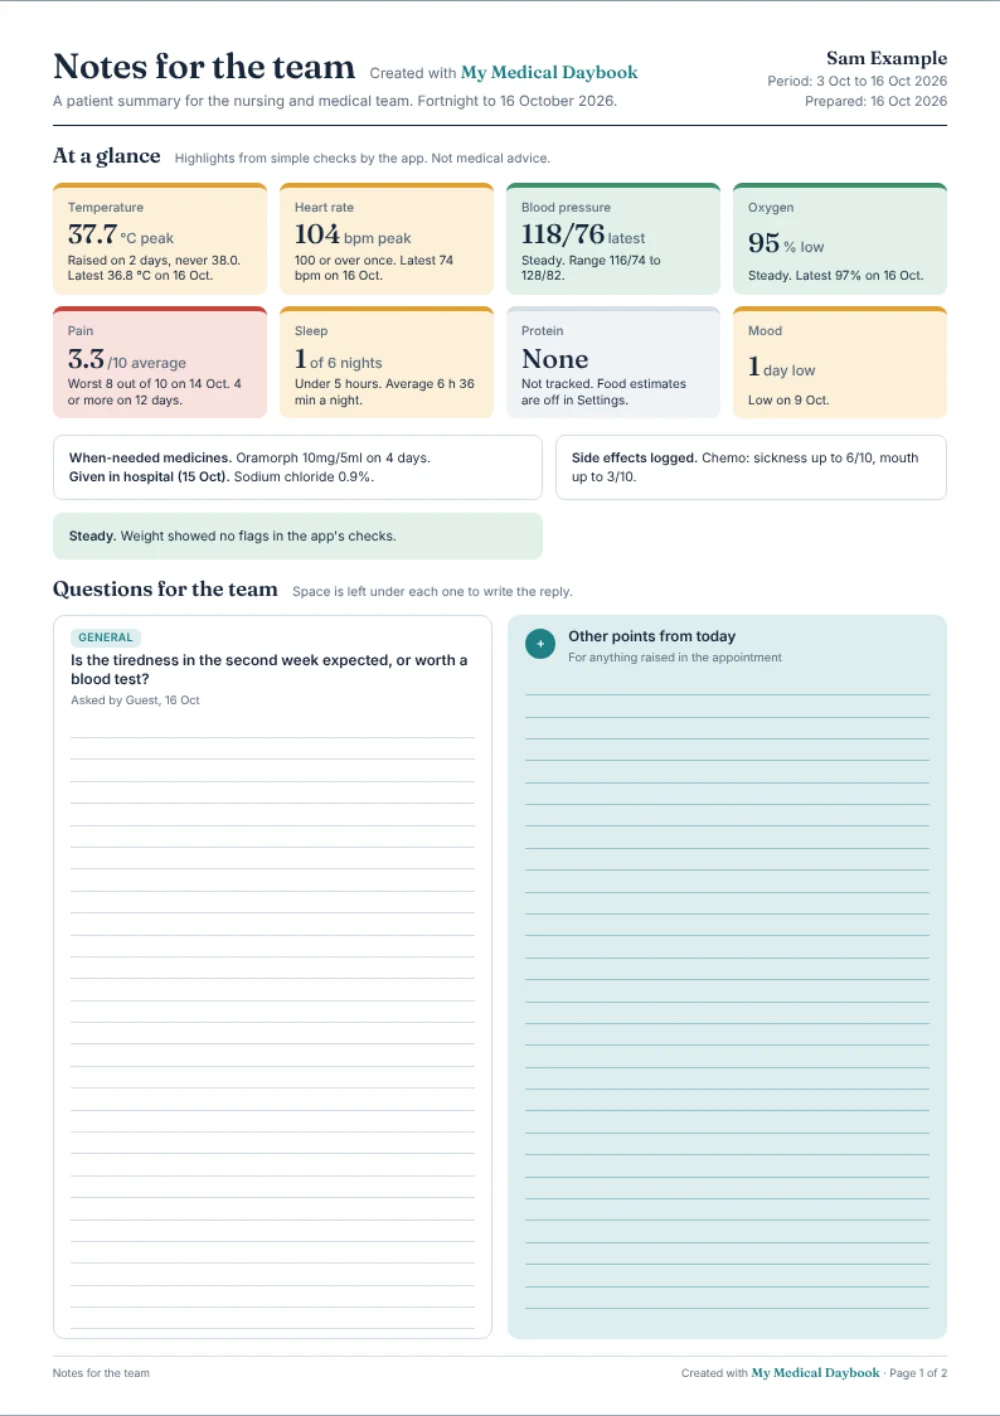
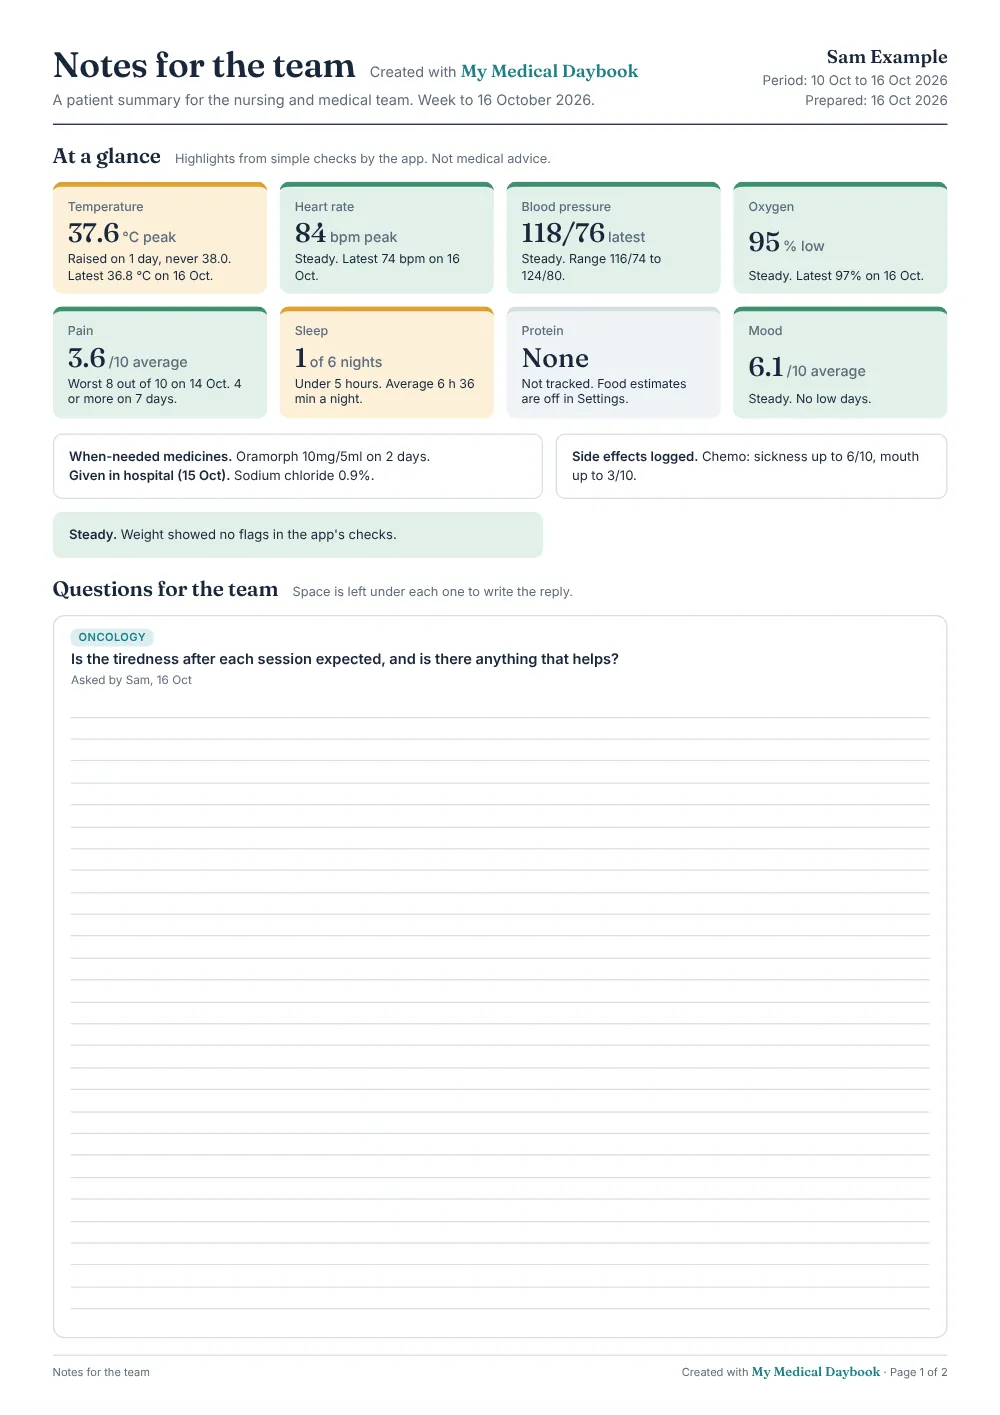
Notes for the team pictures retaken (no Other points card, a week by default)
Claude-Session: https://claude.ai/code/session_019VY17MM1Pv81B6vJUTKu9b

diff --git a/index.html b/index.html
@@ -269,9 +269,9 @@
           <button class="chip" type="button" data-report="food" aria-pressed="false">Food diary</button>
           <button class="chip" type="button" data-report="mood" aria-pressed="false">Mood and wellbeing</button>
         </div>
-        <figure class="pages" data-report="notes" data-n="2" data-cap="Notes for the team: two pages for the nurse or doctor. The fortnight at a glance, the questions with room for the answers, the charts, and the week's notes in the patient's own words.">
-          <div class="page"><picture><source type="image/webp" srcset="media/report-notes-1.webp"><img src="media/report-notes-1.jpg" alt="Notes for the team, page 1: eight tiles with the fortnight's temperature, heart rate, blood pressure, oxygen, pain, sleep, protein and mood, the when-needed medicines, and the questions with ruled lines for the answers." width="1000" height="1416" loading="lazy"></picture></div>
-          <div class="page"><picture><source type="image/webp" srcset="media/report-notes-2.webp"><img src="media/report-notes-2.jpg" alt="Notes for the team, page 2: eight small charts of the fortnight's readings, and the notes from each week with the days that need a mention marked." width="1000" height="1414" loading="lazy"></picture></div>
+        <figure class="pages" data-report="notes" data-n="2" data-cap="Notes for the team: two pages for the nurse or doctor. The week at a glance, the questions with room for the answers, the charts, and the week's notes in the patient's own words.">
+          <div class="page"><picture><source type="image/webp" srcset="media/report-notes-1.webp"><img src="media/report-notes-1.jpg" alt="Notes for the team, page 1: eight tiles with the week's temperature, heart rate, blood pressure, oxygen, pain, sleep, protein and mood, the when-needed medicines, and the questions with ruled lines for the answers." width="1000" height="1415" loading="lazy"></picture></div>
+          <div class="page"><picture><source type="image/webp" srcset="media/report-notes-2.webp"><img src="media/report-notes-2.jpg" alt="Notes for the team, page 2: eight small charts of the week's readings, and the week's notes with the days that need a mention marked." width="1000" height="1416" loading="lazy"></picture></div>
         </figure>
         <figure class="pages" data-report="ibd" data-n="3" data-cap="Crohn's and colitis: bowels, blood and urgency against the person's own usual, flare days and calls to the advice line, injections and steroid courses, results exactly as the lab gave them, and the questions for the gastro team." hidden>
           <div class="page"><picture><source type="image/webp" srcset="media/report-ibd-1.webp"><img src="media/report-ibd-1.jpg" alt="The Crohn's and colitis report, page 1: tiles for bowels a day, blood, urgency and flare days, four charts, the treatment, the flare plan and the results as given." width="1000" height="1416" loading="lazy"></picture></div>
